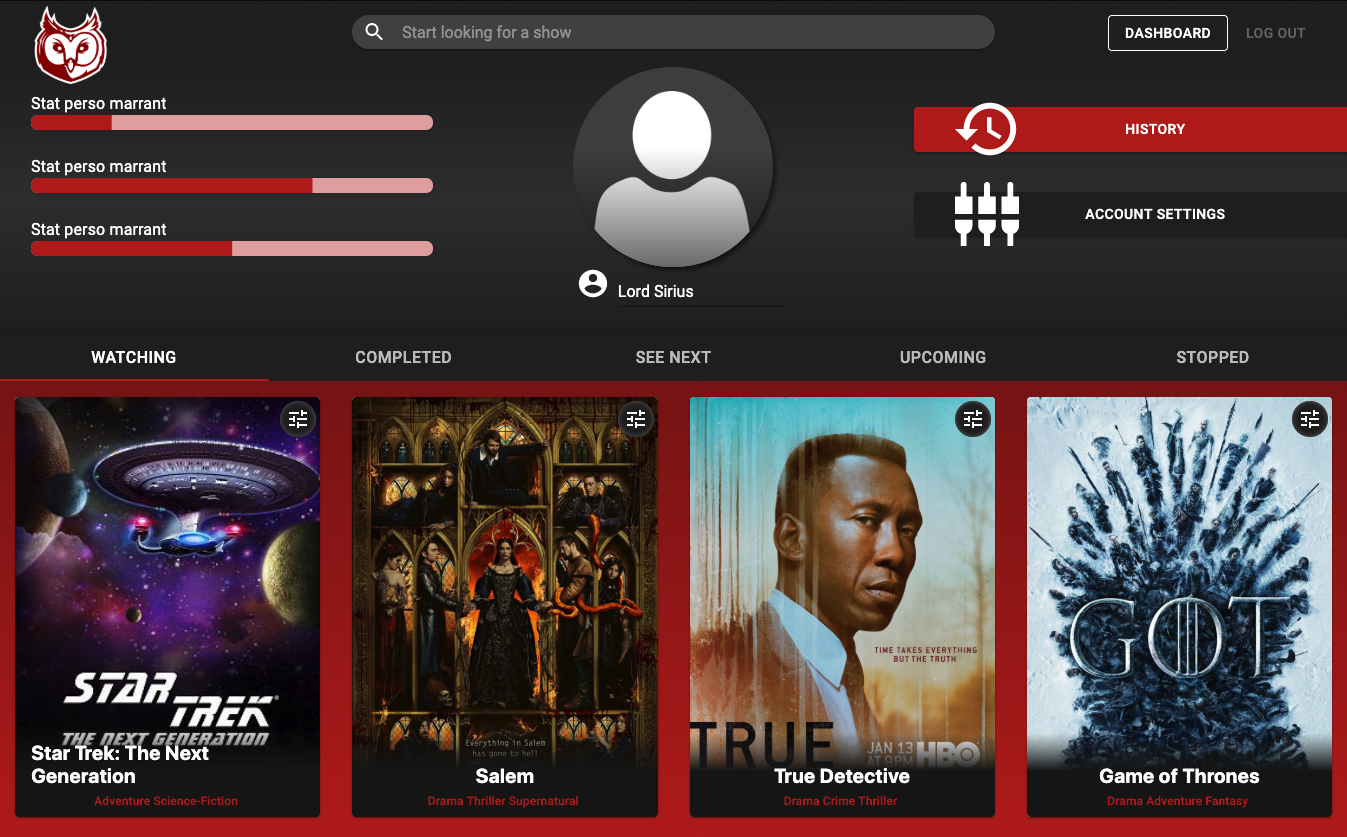
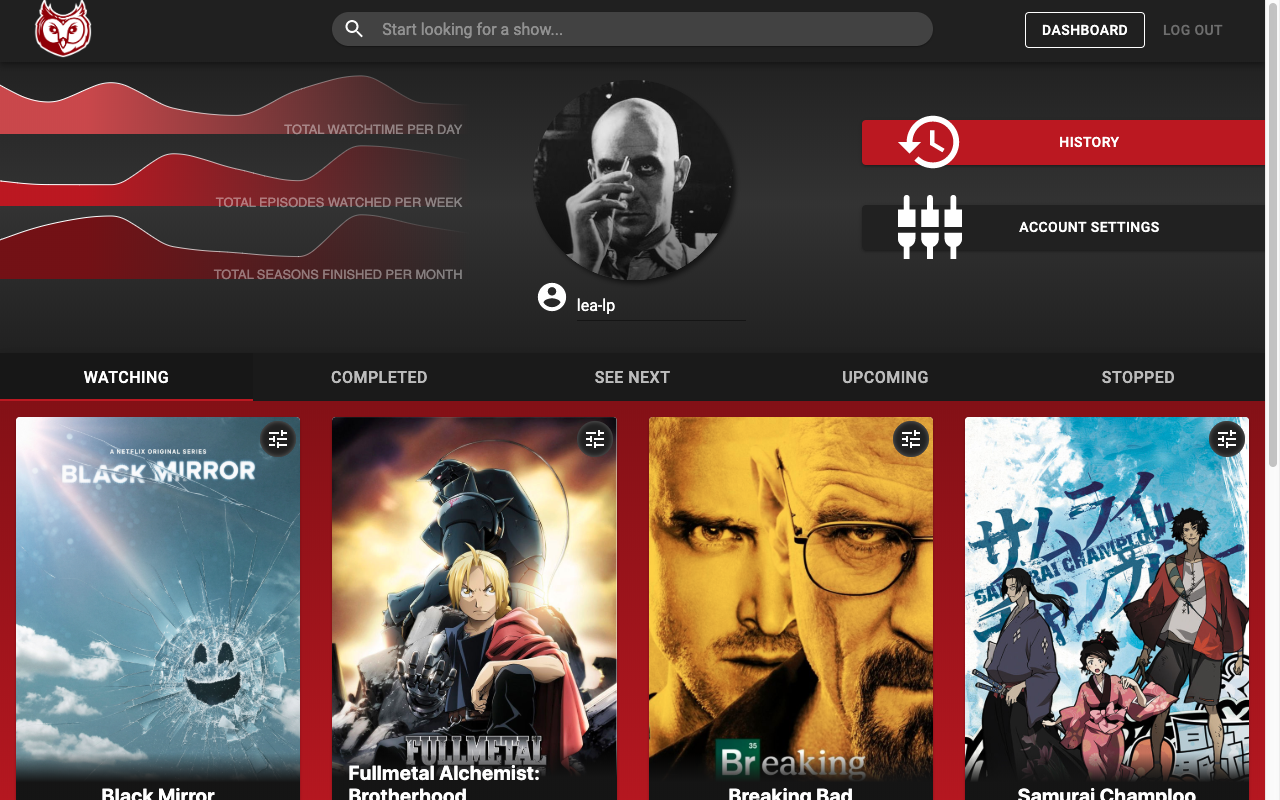
changes saved for prez free

diff --git a/src/components/Show/EditShow.js b/src/components/Show/EditShow.js
@@ -129,8 +129,13 @@ class EditShow extends React.Component {
 
             <Grid item style={{ padding: '3vh 4vw' }}>
 
-              <Grid container justify="space-around" direction="column" spacing={5}>
-                <Grid item style={{ marginTop: '1vh' }}>
+              <Grid
+                container
+                justify="space-around"
+                direction="column"
+                // spacing={5}
+              >
+                <Grid item style={{ margin: '1vh 0 4vh 0' }}>
                   <Typography component="h3" variant="h3">{showDetail.name}</Typography>
                 </Grid>
                 {/*
@@ -153,14 +158,14 @@ class EditShow extends React.Component {
                       userInfos.id,
                       showDetail.id,
                     )}
-                    style={{ height: '83%' }}
+                    // style={{ height: '83%' }}
                   >
 
                     <Grid
                       container
                       direction="column"
-                      spacing={5}
-                      style={{ height: '100%' }}
+                      spacing={3}
+                      // style={{ height: '100%' }}
                       justify="space-evenly"
                       alignItems="center"
                     >
@@ -169,7 +174,7 @@ class EditShow extends React.Component {
                         <Grid
                           container
                           spacing={2}
-                          style={{ height: '100%' }}
+                          // style={{ height: '100%' }}
                           justify="space-evenly"
                           alignItems="center"
                         >
@@ -240,7 +245,7 @@ class EditShow extends React.Component {
                               id="endDate"
                               label="End date"
                               type="date"
-                              defaultValue={endFollowDateBeforeStartFormatted}
+                              defaultValue="dd/mm/yyyy"
                               onChange={(event) => handleChangeEditShow(event)}
                             />
                           </Grid>

diff --git a/src/components/Dashboard/Header/UserParams.js b/src/components/Dashboard/Header/UserParams.js
@@ -43,9 +43,9 @@ const data = [
 const Charts = () => (
   <>
     <AreaChart
-      style={{ margin: '-4vh 0 1vh -3vw' }}
-      width={700}
-      height={80}
+      style={{ margin: '-2vh 0 1vh -3vw' }}
+      width={500}
+      height={70}
       data={data}
       margin={{
         top: 5, right: 0, left: 0, bottom: 0,
@@ -67,8 +67,8 @@ const Charts = () => (
 
     <AreaChart
       style={{ margin: '0 0 1vh -3vw' }}
-      width={700}
-      height={80}
+      width={500}
+      height={70}
       data={data}
       margin={{
         top: 5, right: 0, left: 0, bottom: 0,
@@ -90,8 +90,8 @@ const Charts = () => (
 
     <AreaChart
       style={{ margin: '0 0 1vh -3vw' }}
-      width={700}
-      height={80}
+      width={500}
+      height={70}
       data={data}
       margin={{
         top: 5, right: 0, left: 0, bottom: 0,
@@ -103,8 +103,8 @@ const Charts = () => (
           <stop offset="97%" stopColor="#fff" stopOpacity={0} />
         </linearGradient>
         <linearGradient id="fillDark" x1="0" y1="0" x2="1" y2="0">
-          <stop offset="20%" stopColor="#801313" stopOpacity={1} />
-          <stop offset="97%" stopColor="#801313" stopOpacity={0} />
+          <stop offset="20%" stopColor="#701313" stopOpacity={1} />
+          <stop offset="97%" stopColor="#701313" stopOpacity={0} />
         </linearGradient>
       </defs>
       <Area type="monotone" dataKey="amt" stroke="url(#stroke)" fillOpacity={1} fill="url(#fillDark)" />

diff --git a/src/utils/index.js b/src/utils/index.js
@@ -85,9 +85,9 @@ export function FilteredAiredLandingPage(airedArray) {
     currentShow,
   ) => currentShow.show_rating !== null);
   
-  const jpShow = airedArray.filter((currentShow) => currentShow.Show_type === 'Animation').sort(compareRatingForAiredList).splice(0, 4);
+  const jpShow = airedArray.filter((currentShow) => currentShow.Show_type === 'Animation').sort(compareRatingForAiredList).splice(0, 3);
   console.log(jpShow);
-  const usShow = airedArray.filter((currentShow) => currentShow.Show_type === 'Scripted' || currentShow.Show_type === 'Reality').sort(compareRatingForAiredList).splice(0, 4);
+  const usShow = airedArray.filter((currentShow) => currentShow.Show_type === 'Scripted' || currentShow.Show_type === 'Reality').sort(compareRatingForAiredList).splice(0, 3);
 
   const newArray = [jpShow, usShow];
 

diff --git a/src/components/Show/index.js b/src/components/Show/index.js
@@ -21,7 +21,7 @@ import Loader from 'src/components/Loader';
 import './show.scss';
 
 // Icons
-import ArrowBackIcon from '@material-ui/icons/ArrowBack';
+import ArrowBackIos from '@material-ui/icons/ArrowBackIos';
 
 
 const Show = ({
@@ -47,7 +47,7 @@ const Show = ({
 
             {/* Return link */}
             <NavLink exact to="/search">
-              <IndexButtonReturn color="secondary" onClick={() => callBackSearchInputResult(searchInputValue)}><ArrowBackIcon />Return</IndexButtonReturn>
+              <IndexButtonReturn color="secondary" onClick={() => callBackSearchInputResult(searchInputValue)}><ArrowBackIos />Return</IndexButtonReturn>
             </NavLink>
 
             {Object.keys(showDetail).length !== 0 ? (

diff --git a/src/store/ajaxMiddleware.js b/src/store/ajaxMiddleware.js
@@ -89,7 +89,7 @@ const ajaxMiddleware = (store) => (next) => (action) => {
   // Switch from development to production urls
   const urlServer = 'http://o-trak.com';
   const urlLocal = 'http://localhost:8001';
-  const url = urlServer;
+  const url = urlLocal;
 
 
   console.log('AJAX MIDDLEWARE - ACTION DETAILS >>> ', action);
@@ -240,7 +240,7 @@ const ajaxMiddleware = (store) => (next) => (action) => {
 
       const updatedFollowedShowDatas = {
         status: statusInInt,
-        endDate: action.endDate,
+        // endDate: action.endDate,
       };
 
       axios.patch(`${url}/api/followings/${action.followId}`,

diff --git a/src/components/Show/show.scss b/src/components/Show/show.scss
@@ -14,14 +14,15 @@
 
 // edit modal poster
 #edit-modal-image {
-  min-width: 5vw;
-  max-width: 25vw;
+  // min-width: 5vw;
+  // max-width: 25vw;
+  width: 31vw;
   max-height: fit-content;
   display: table-header-group;
   border-radius: 5px;
   
 }
 
-@media (max-width: 1325px) {
-  #edit-modal-image{ display: none; }
-}
+// @media (max-width: 1325px) {
+//   #edit-modal-image{ display: none; }
+// }

diff --git a/src/components/Footer/index.js b/src/components/Footer/index.js
@@ -32,7 +32,7 @@ const Footer = ({ handleOpen, isLogged, emptySearchResults }) => (
 
       {/* Logo */}
       <Grid item xl={1} lg={1} md={2} sm={2} xs={4}>
-        <Grid container justify="flex-start">
+        <Grid container justify="flex-start" spacing={3}>
           <NavLink exact to="/search">
             <img src={logoOwl} alt="O’Track logo" id="FooterLogo" />
           </NavLink>

diff --git a/src/styles/materialUi/materialUiStyles/Show.js b/src/styles/materialUi/materialUiStyles/Show.js
@@ -39,8 +39,8 @@ export const IndexButtonReturn = styled(Button)({
 export const ShowHeadPoster = styled(CardMedia)({
   minHeight: 410,
   minWidth: 260,
-  maxHeight: 500,
-  maxWidth: 340,
+  maxHeight: 700,
+  maxWidth: 540,
   borderRadius: 10,
   alignItems: 'center',
 });

diff --git a/src/components/Homepage/Filter.js b/src/components/Homepage/Filter.js
@@ -46,7 +46,7 @@ const Toolbar = withStyles({
 const useStyles = makeStyles(() => ({
   root: {
     display: 'flex',
-    marginTop: '-2.7vh',
+    marginTop: '-0.7vh',
   },
   appBar: {
     transition: theme.transitions.create(['margin', 'width'], {

diff --git a/src/components/Dashboard/Dashboard.scss b/src/components/Dashboard/Dashboard.scss
@@ -21,9 +21,9 @@
 
 // Sub Text dashboard stats
 .stats-subText {
-  margin: -2.1vh 0 0 33vh;
+  margin: -2.2vh 0 0 18vh;
   text-align: right;
-  width: 15vw;
+  width: 23vw;
   text-transform: uppercase;
   font-size: 0.8em;
   opacity: 0.4;

diff --git a/src/styles/materialUi/materialUiStyles/Footer.js b/src/styles/materialUi/materialUiStyles/Footer.js
@@ -24,5 +24,5 @@ export const FooterIcon = styled(Icon)({
   width: 'auto',
   height: 'auto',
   float: 'right',
-  paddingTop: 15,
+  padding: '10px 10px 0 0',
 });

diff --git a/src/components/Navbar/Navbar.scss b/src/components/Navbar/Navbar.scss
@@ -4,7 +4,7 @@
 }
 
 #Navbar img {
-    width: 4.5vw;
+    width: 7vw;
     position: absolute;
     margin: -15px 0 0 10px;
 }
